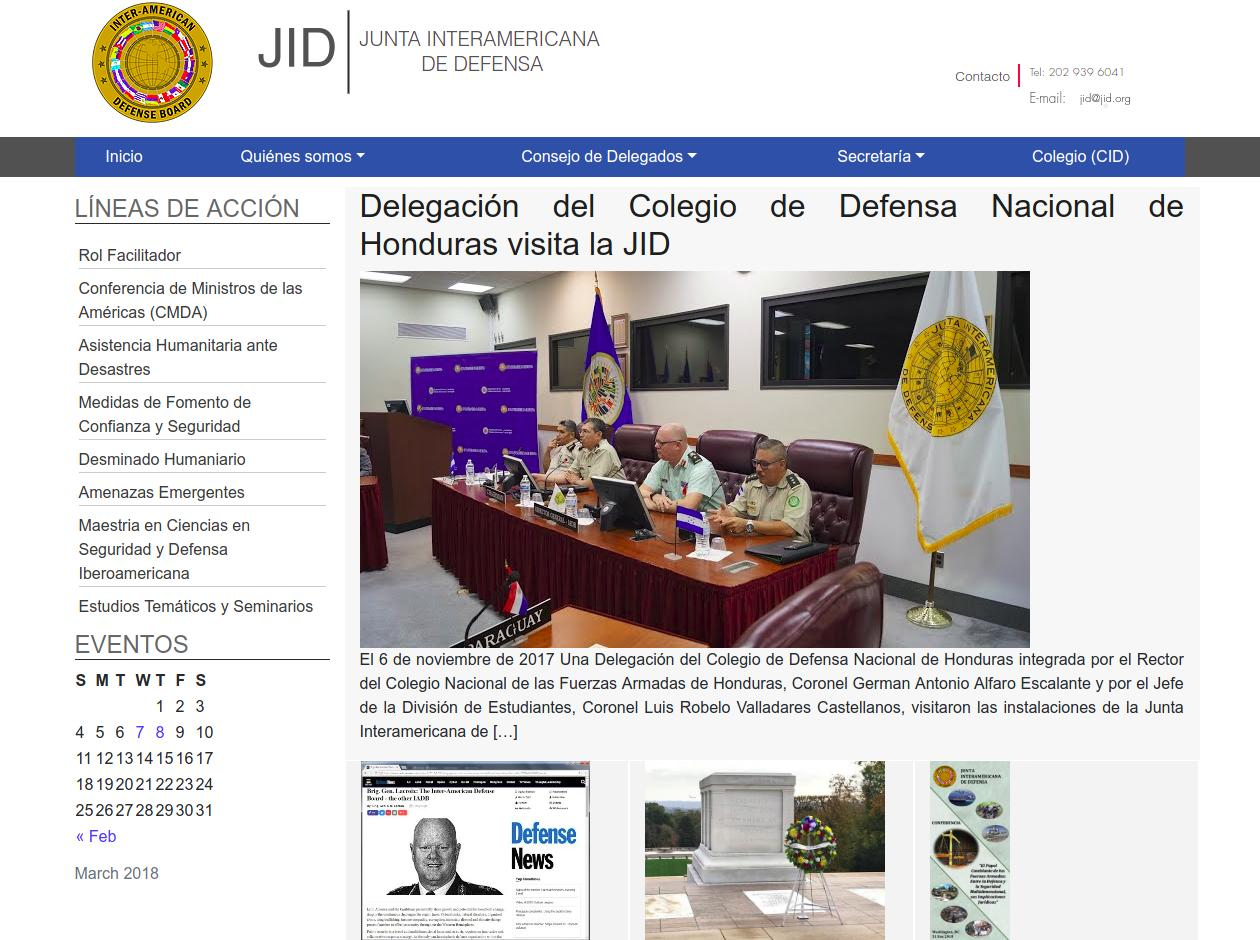
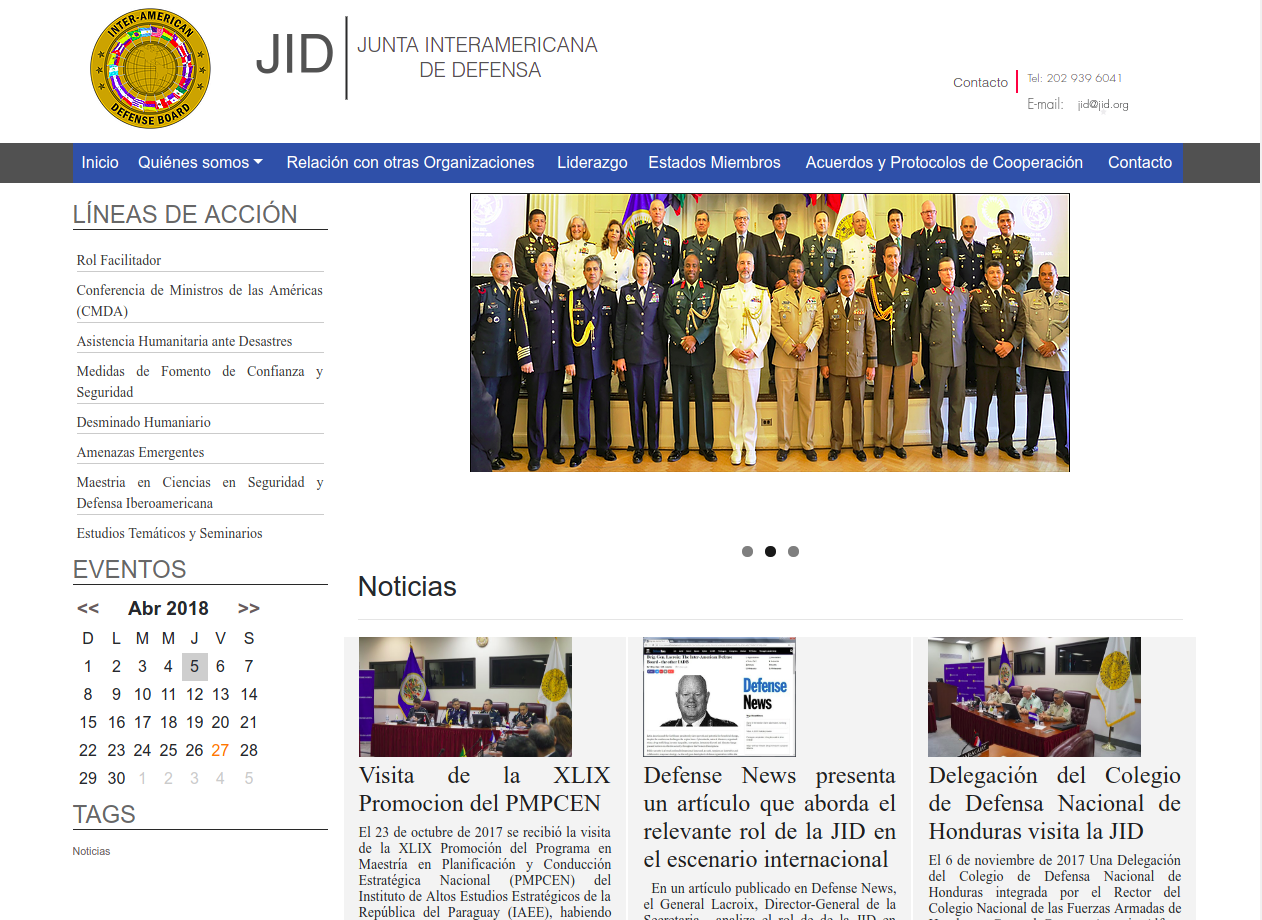
last modifications done, theme almost done

diff --git a/style.css b/style.css
@@ -275,3 +275,32 @@ ul.nav li.dropdown:hover > ul.dropdown-menu{
 	font-size: 1.2rem;
 	color: #FFF;
 }
+
+.comment-list {
+
+}
+
+.comments-area {
+	border-top: solid 1px #585858;
+	padding-left: 5%;
+	padding-right: 5%;
+}
+
+.comments-area ol li {
+	display: block;
+	background-color: #FFF;
+	margin-bottom: 2px;
+	border-radius: 2px;
+}
+
+.comments-area a {
+	color: #909090;
+}
+
+.comments-area a:hover {
+	color: #000;
+}
+input.text {
+	border: 1px solid #222;
+	background-color: #FFF;
+}

diff --git a/functions/support.php b/functions/support.php
@@ -1,5 +1,9 @@
 <?php
 
+   /*
+   * Enable the support for custom logo so, you can modify the logo by choosing it on the Admin Panel.
+   */
+
 	function JIDTheme_custom_logo_setup() {
 		add_theme_support('custom-logo', array(
 					  'height'	  => 320,
@@ -10,11 +14,20 @@
 				));	
 	}
 
+    /*
+    * This function enable the main manu located in the header of the website.
+    */
+
 	function register_header_menu() {
   		register_nav_menus( array(
 								'primary' => __( 'Primary Menu', 'Main_Menu' ),
 						   ) );
 	}
+
+    /*
+    * This is a custom sidebar which is used in the header for add basic stuff like the contact image
+    * or a search box.
+    */
 
 	function my_custom_sidebar() {
     	register_sidebar(
@@ -30,7 +43,10 @@
     	);
 	}
 
-
+    /*
+    *   This is for the support of the main sidebar located in the left side of the website.navbar-link
+    *   this is used in the home.php and index.php
+    */
 	function main_custom_sidebar() {
     	register_sidebar(
         	array (
@@ -44,6 +60,10 @@
         	)
     	);
     }
+
+    /*
+    * The next 3 functions are to define the three footer sidebars, sidebar_1 is on the left side, sidebar_2 is on the middle and sidebar_3 is on the right side.
+    */
 
     function footer_custom_sidebar_1() {
         register_sidebar(
@@ -87,11 +107,17 @@
         );
     }
 
+    /* 
+    *   In order to can recognize and use the functions defined before, we have to add these by using
+    *   the function add_action.
+    */
     add_action('widgets_init', 'footer_custom_sidebar_1');
     add_action('widgets_init', 'footer_custom_sidebar_2');
     add_action('widgets_init', 'footer_custom_sidebar_3');
     add_action('widgets_init', 'my_custom_sidebar');
 	add_action('widgets_init', 'main_custom_sidebar');
+
 	add_action('init', 'register_header_menu');
 	add_action('after_setup_theme', 'JIDTheme_custom_logo_setup');
+
 ?>

diff --git a/comments.php b/comments.php
@@ -1,0 +1,38 @@
+<?php
+	if (post_password_required()) {
+		return;
+	}
+?>
+
+	<div id="comments" class="comments-area">
+		<?php if (have_comments()) : ?>
+			<ol class="comment-list">
+				<?php 
+					wp_list_comments( array(
+						'style' 	 => 'ol',
+						'short_ping' => true,
+						'avatar' 	 => 74,));
+				?>
+			</ol> <!-- Comment list -->
+
+			<?php //Are there comments to navigate through
+				if (get_comment_pages_count() > 1 && get_option('page_comments')) :
+			?>
+					<nav class="navigation comment-navigation" role="navigation">
+						<h1 class="screen-reader-text section-heading">
+						<?php _e('Comment navigation', 'JIDTheme'); ?>
+						</h1>
+						<div class="nav-previous">
+						<?php previous_comments_link(__('&larr; Comentarios antiguos.', 'JIDTheme')); ?>
+						</div>
+						<div class="nav-next">
+						<?php next_comments_link(__('Comentarios nuevos &rarr;', 'JIDTheme')); ?>
+						</div>
+					</nav> <!-- .comment-navigation -->
+				<?php endif; //Check for comments navigation. ?>
+			<?php if (!comments_open() && get_comments_number()) : ?>
+				<p class="no-comments"><?php _e('Los comentarios están deshabilitados.', 'JIDTheme'); ?></p>
+			<?php endif; ?>
+		<?php endif; //Have comments ?>
+		<?php comment_form() ?>
+	</div>

diff --git a/single.php b/single.php
@@ -23,19 +23,21 @@ get_header(); ?>
             <div class="single-post-style single-post-style-text"><?php the_content(); ?></div>
  
         <?php
+            // If comments are open or we have at least one comment, load up the comment template
+            if ( comments_open() || get_comments_number() ) :
+                comments_template();
+            endif;
+        ?>
+
+        <?php
         // End the loop.
         endwhile;
         ?>
 
-        <?php
-        // If comments are open or we have at least one comment, load up the comment template.
-        if ( comments_open() || get_comments_number() ) :
-            comments_template();
-        endif;
-        ?>
-
         </div>
         </main><!-- .site-main -->
+
+
     </div><!-- .content-area -->
  
 <?php get_footer(); ?>

diff --git a/home.php b/home.php
@@ -14,8 +14,19 @@
 				 ?>
 				</div>
 			</div>
+
+			<div class="row">
+				<div class="col-md-12">
+					<h3><?php 
+					//Print the little header just before the posts are displayed.
+					printf(_e("Noticias", "JIDTheme")); 
+					?></h3><hr/>
+				</div>
+			</div>
+
 			<?php
-				$count = (int)1; //Counter for post initialized in one. Set in 1  avoid featured post and set 0 to enable it.
+				$count = (int)1; 
+				//Counter for post initialized in one. Set in 1 wil disable featured post and set 0 will enable it.
 				while (have_posts()) : the_post();
 				if ($count == 0) {
 			?>
@@ -61,6 +72,9 @@
 				}
 			?>
  			<?php endwhile; ?>
+ 			<div class="readmore">
+ 				<a href="/index.php/category/noticias/">
+ 			</div>
 		</div>
 	</div>
 </div>

diff --git a/index.php b/index.php
@@ -1,5 +1,4 @@
 <?php get_header(); ?>
-
 <!-- Posts -->
 <div class="container container-homepage">
 	<div class="row">
@@ -25,7 +24,6 @@
 			<?php
 				}
 			?>
-
 			<?php
 				if ($count == 1) {
 					echo "<div class='row row-main-posts'>";
@@ -53,8 +51,20 @@
 				}
 			?>
  			<?php endwhile; ?>
- 			<div class="navigation"><p><?php posts_nav_link('&#8734;','<<','>>'); ?></p></div>
+
+ 		<div class="row">
+ 			<p class="col-md-12">
+ 			<hr/>
+ 				<?php 
+ 					posts_nav_link('|', 
+ 								"<< Pagina anterior ",
+ 								" Pagina siguiente >>"
+ 							); 
+ 				?>
+ 			</p>
+ 		</div>
 		</div>
+		
 	</div>
 </div>
 <?php get_footer(); ?>

diff --git a/page.php b/page.php
@@ -16,7 +16,15 @@ get_header(); ?>
                 <h2 class="title-page"><?php the_title(); ?></h2>
             </center>
             <div class="single-post-style single-post-style-text"><?php the_content(); ?></div>
-        <?php
+            
+            <?php
+                // If comments are open or we have at least one comment, load up the comment template
+                if ( comments_open() || get_comments_number() ) :
+                    comments_template();
+                endif;
+            ?>
+
+        <?php       
         // End the loop.
         endwhile;
         ?>

diff --git a/functions/styles.php b/functions/styles.php
@@ -2,6 +2,7 @@
 
 	/*
 	*	Define the stylesheets that are going to be used in the theme.
+	*   Includes bootstrap.
 	*/
 	function JIDTheme_style() {
 		wp_enqueue_style("bootstrap-css", get_template_directory_uri()."/bs/css/bootstrap.min.css");

diff --git a/footer.php b/footer.php
@@ -1,3 +1,4 @@
+
 	<footer class="footer container">
       <div class="row">
         <div class="col-md-4">
